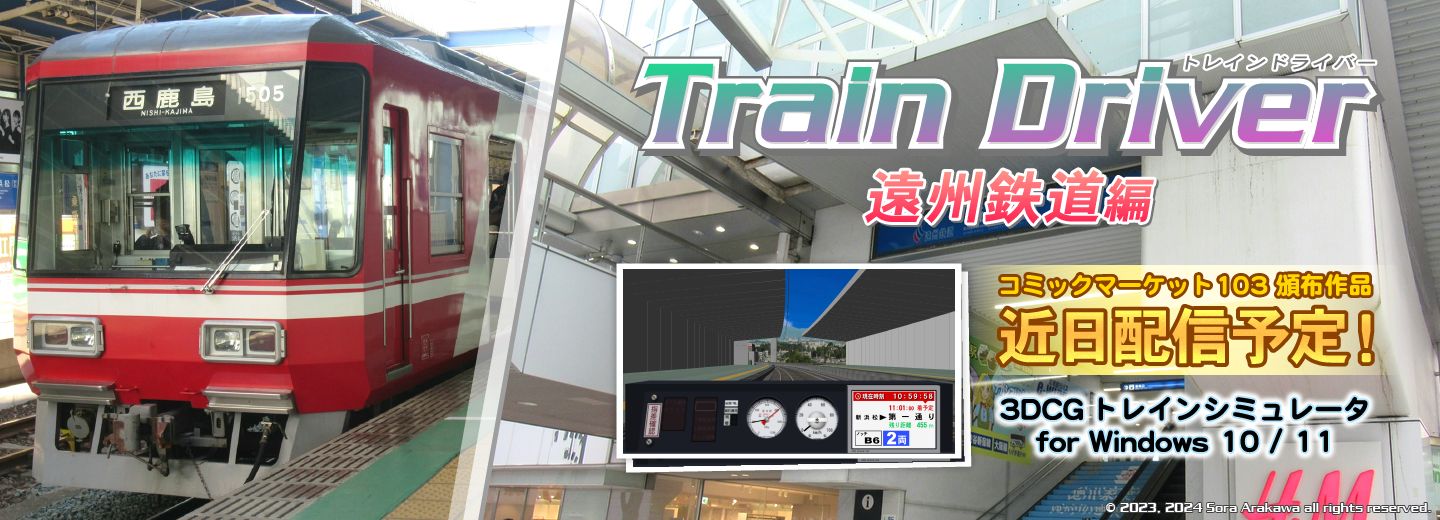
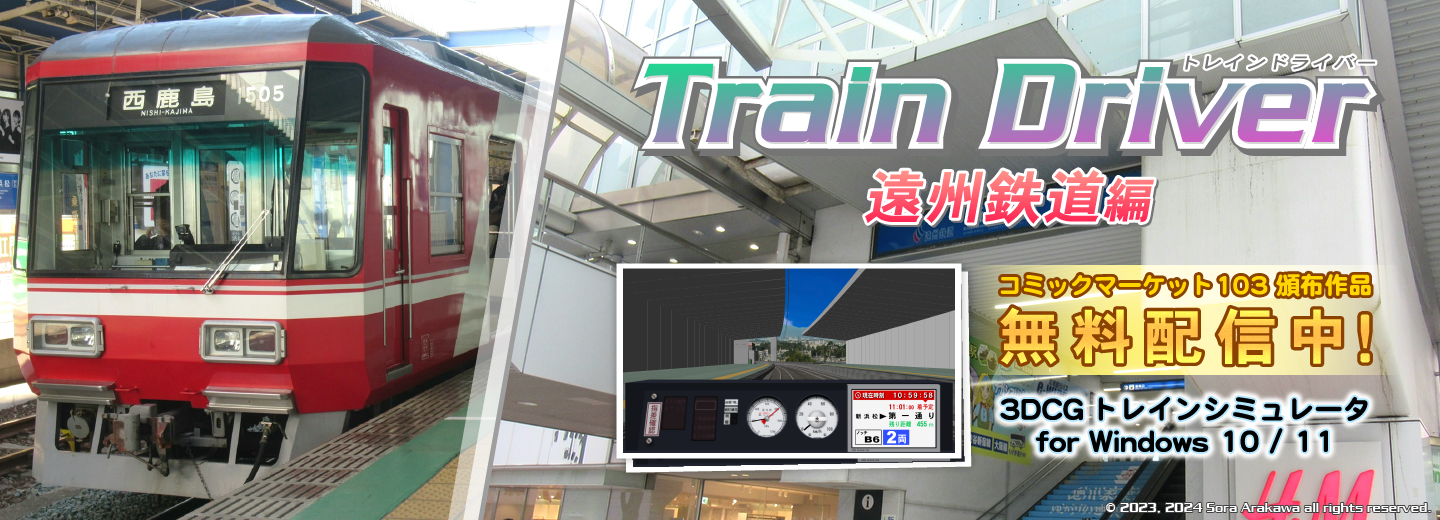
Train Driver 遠州鉄道編 一般公開

diff --git a/components/Sidebar.vue b/components/Sidebar.vue
@@ -38,16 +38,22 @@
           description="キューブを操り、敵を蹴散らす3Dアクションパズルゲーム"
         />
         <Card
-          href="https://arkw.net/products/win/TypingFactory/"
-          src="products/typing"
-          title="タイピングファクトリー"
-          description="英単語や地名など短い文を連続して入力するタイピングゲーム"
+          href="https://arkw.net/products/pc_game/train_driver_entetsu/"
+          src="products/train_driver_entetsu"
+          title="Train Driver 遠州鉄道編"
+          description="3DCGトレインシミュレータ。遠州鉄道2000系電車で新浜松～第一通りを運転できます"
         />
         <Card
           href="https://arkw.net/products/pc_game/train_chicken_race/"
           src="products/train_chicken_race"
           title="トレインチキンレース"
           description="電車でチキンレースをしてみませんか? 3Dシミュレーションゲーム"
+        />
+        <Card
+          href="https://arkw.net/products/win/TypingFactory/"
+          src="products/typing"
+          title="タイピングファクトリー"
+          description="英単語や地名など短い文を連続して入力するタイピングゲーム"
         />
         <Card
           href="https://arkw.net/products/pc_game/thsu/"

diff --git a/components/Navi.vue b/components/Navi.vue
@@ -12,7 +12,10 @@
         <NaviImage src="arkw_lab.webp" />
       </slide>
       <slide>
-        <NaviImage src="train_driver_entetsu.webp" />
+        <NaviImage
+          href="https://arkw.net/products/pc_game/train_driver_entetsu/"
+          src="train_driver_entetsu.webp"
+        />
       </slide>
       <slide>
         <NaviImage
